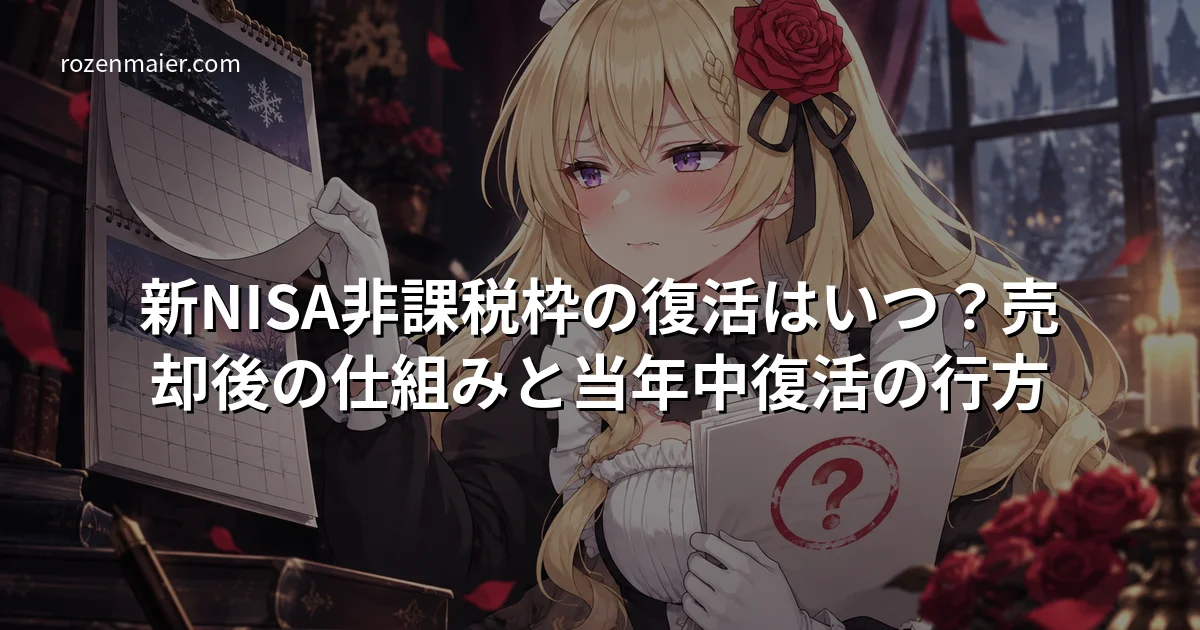
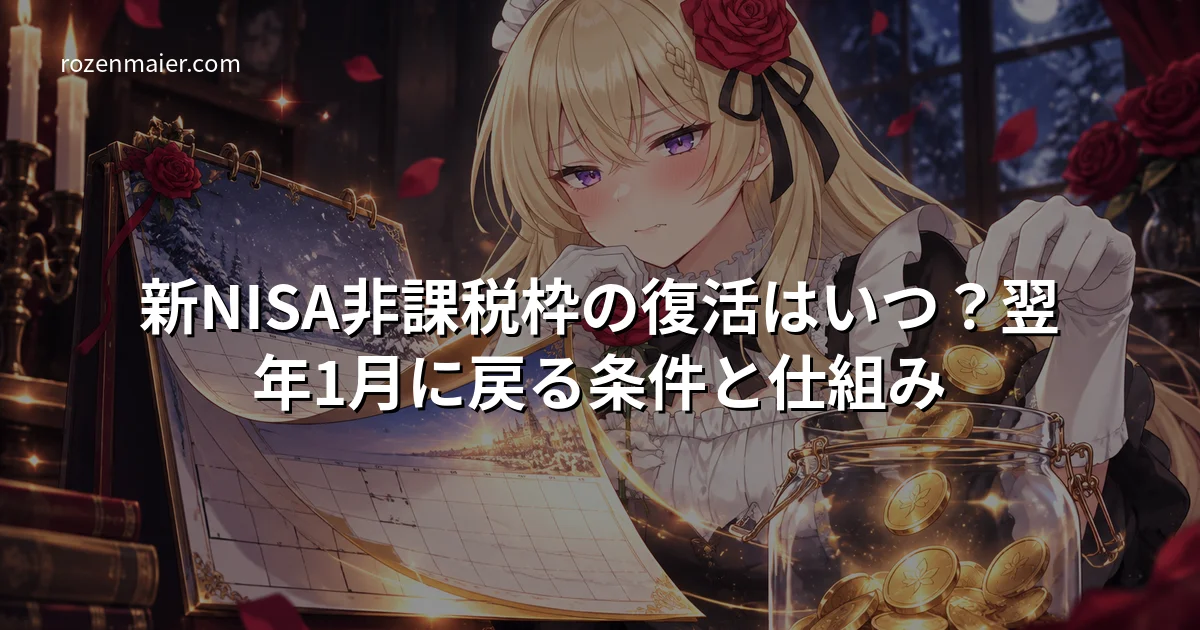
rewrite(seo): NISA非課税枠の復活記事（Bing週次 108→43表示・2→0クリックで失速）を、実クエリ「復活 いつ/1月1日/上限繰り越し/移管後」に合わせて直す
- 翌年枠は1月1日でなく受渡日が翌年になる取引から使える（松井証券FAQ）を新設H2で回答
- 使い残した年間枠は繰り越せない（あおぞら銀行・三菱UFJAM FAQ）と復活/リセット/繰り越しの区別を新設
- 金融機関変更時の通算（金融庁FAQ・国税庁NISAクラウドQ&A令和8年7月）、課税口座移管でも翌年再利用可を追加
- タイトルに答え「翌年1月」と「条件」を入れ、クリック語の「非課税枠・復活・いつ・仕組み」は維持。サムネ再生成

diff --git a/content/posts/2026-08-11-nisa-tax-free-slot-recovery-timing-2027-guide.md b/content/posts/2026-08-11-nisa-tax-free-slot-recovery-timing-2027-guide.md
@@ -1,11 +1,11 @@
 ---
-title: "新NISA非課税枠の復活はいつ？売却後の仕組みと当年中復活の行方"
+title: "新NISA非課税枠の復活はいつ？翌年1月に戻る条件と仕組み"
 date: 2026-08-11
-lastmod: 2026-09-29
+lastmod: 2026-10-16
 draft: false
 tags: ["NISA", "税金・確定申告"]
 categories: ["NISA・iDeCo"]
-description: "新NISAで売却した非課税枠は翌年1月に簿価分だけ復活します。年末売却は受渡日で判定、年間360万円の上限で戻りきらないケース、成長投資枠1,200万円の扱い、「当年中復活」は令和8年度改正で見送られ令和9年度要望で再挑戦中という現状まで、金融庁資料で整理します。"
+description: "新NISAで売却した非課税枠は翌年1月に簿価分だけ復活します。翌年の枠は1月1日ではなく受渡日が翌年になる12月下旬の取引から使えること、使い残した年間枠は繰り越せないこと、金融機関変更や課税口座への移管時の扱い、受渡日判定、当年中復活の改正状況まで金融庁・国税庁資料で整理します。"
 featureimage: "https://rozenmaier.com/img/thumbnails/2026-08-11-nisa-tax-free-slot-recovery-timing-2027-guide.jpg"
 featureimagecaption: "Photo by rozenmaier.com"
 ---
@@ -15,6 +15,8 @@ featureimagecaption: "Photo by rozenmaier.com"
 - **いつ：** 売却した年の**翌年1月**に復活します（当年中には戻りません）
 - **いくら：** 売ったときの金額ではなく、**買ったときの金額（簿価）**の分だけ
 - **判定の基準日：** 約定日ではなく**受渡日**。年末ぎりぎりの売却は1年ずれることがあります
+- **翌年の枠が使えるのは：** 1月1日ではなく、**受渡日が翌年になる取引から**。日本株なら12月下旬の取引日から翌年分の枠で買えます
+- **使い残した年間枠は？** 翌年に**繰り越せません**。「復活」するのは生涯枠1,800万円の空きだけです
 - **2027年から当年中に戻る？** ——いいえ、**まだ決まっていません**。金融庁は令和8年度の税制改正で要望しましたが大綱には入らず、2026年8月の令和9年度要望で改めて求めている段階です
 
 最後の点は、ネット上で「2027年1月から当年中復活」と書かれた記事が少なくないので要注意ですわ。この記事も以前はそう書いておりました。金融庁の一次資料で確認し直したところ、令和8年度税制改正大綱（2025年12月）で決まったのは「つみたて投資枠の年齢要件撤廃（こどもNISA）」などであって、枠の当年中復活は含まれていませんでした。お詫びして訂正いたします。🌹
@@ -124,6 +126,62 @@ featureimagecaption: "Photo by rozenmaier.com"
 
 ---
 
+## 使い残した年間枠は繰り越せない——「復活」と「繰り越し」は別物
+
+「今年は60万円しか使わなかったから、残り300万円を来年に上乗せできる？」という質問もよくいただきますが、答えは**できません**。
+
+あおぞら銀行のFAQは「年間投資枠（つみたて投資枠120万円、成長投資枠240万円の計360万円）を使い切れなかった場合でも、その分を翌年に繰り越すことはできません」と明記していますし、三菱UFJアセットマネジメントのFAQも「つみたて投資枠、成長投資枠ともに、残りの枠を翌年に繰り越せません」と答えています。
+
+| 用語 | 対象 | 中身 |
+|---|---|---|
+| 枠の**復活**（再利用） | 生涯枠1,800万円 | 売った商品の簿価分が、翌年以降の「空き」として戻る |
+| 年間枠の**リセット** | 年間投資枠360万円 | 毎年1月（正確には受渡日が翌年になる取引）から新しい360万円になる |
+| 年間枠の**繰り越し** | 年間投資枠360万円 | **できない**。使い残した分は消える |
+
+ややこしいのは、「生涯枠の空き」は繰り越されていくのに、「年間枠の使い残し」は消える点ですわ。今年60万円しか投資しなかった人は、生涯枠1,800万円のうち1,740万円が空いたまま来年に持ち越されます。ただし来年に使えるのは、やはり年間360万円まで。**生涯枠は貯まる、年間枠は貯まらない**——この2つを分けて覚えておけば迷いませんの。
+
+---
+
+## 翌年の枠はいつから使える？——1月1日ではなく「受渡日が翌年になる取引」から
+
+「1月1日になった瞬間に枠が戻るの？」という疑問には、**少し早く使える**とお答えしますわ。判定が受渡日基準なので、受渡日が翌年1月になる取引は、12月中でも翌年の枠で買えるからです。
+
+松井証券のFAQでは、翌年分のNISA年間投資枠は「日本株の受渡日が翌年となる取引日から使用できます」とされ、例として「12/29（木）取引日が翌年1/4（水）受渡日となる場合」には、その前営業日の夕方に翌年分の投資可能額が画面に反映され、12/29の取引分から翌年の枠が使えると説明しています。
+
+| 取引 | どちらの年の枠？ |
+|---|---|
+| 受渡日が12月中に収まる約定 | その年の枠 |
+| 受渡日が翌年1月になる約定（年末最終週など） | **翌年の枠** |
+| 投資信託 | 銘柄ごとに受渡日・ファンド休日が違うため、銘柄で異なる |
+
+裏を返すと、**年末の「今年の枠を使い切りたい」買付も、「今年中に売って来年復活させたい」売却も、締切は12月下旬より前**になります。売却でも買付でも、受渡日が年内に収まるかどうかがすべてですわ。
+
+なお、売った分の生涯枠（簿価分）が「翌年以降に再利用可能」になる点は同じFAQにも書かれていますが、それが画面に何日から表示されるかは金融機関ごとに違います。年明けに証券会社のNISA口座管理画面で、利用可能額が増えているかを確かめてくださいまし。
+
+---
+
+## 金融機関を変えた・課税口座へ移した場合の枠
+
+### 金融機関を変えても、生涯枠は通算で管理される
+
+金融庁のNISA特設サイトのよくある質問では、「利用者それぞれの非課税保有限度額については、国税庁において一括管理を行うこととされています」と説明されています。
+
+仕組みとしては、各金融機関が年末時点の簿価残高を**翌年1月31日まで**に「NISAクラウド」へ提供し、そこで名寄せ・集計（年次集計）した「総投資簿価残高」が、**最新のNISA口座がある金融機関**に渡される流れですわ（国税庁「新NISAに関するQ＆A（金融商品取引業者等向けの情報）」令和8年7月版）。
+
+つまり、A証券で売却して翌年B証券に乗り換えた場合でも、A証券で売った簿価分の空きはB証券側の枠に反映されます。ただし集計に時間がかかるため、乗り換え直後は利用可能額が確定していない期間がありえます。乗り換えの手続き締切は[NISAの金融機関変更は9月30日が分岐点](/posts/2026-08-25-nisa-financial-institution-change-september-deadline-guide/)で整理していますわ。
+
+### NISAから課税口座へ移した分も、翌年に再利用できる
+
+売却だけでなく、NISA口座の商品を特定口座など**課税口座へ払い出した（移管した）場合**も、その簿価分は翌年以降に再利用できます。松井証券のFAQは「売却または課税口座に移管した分の非課税保有限度額（つみたて投資枠1,800万円、うち成長投資枠1,200万円）は翌年以降に再利用可能」と明記していますの。
+
+ただし、課税口座に移した後の値上がり益には課税されますし、移管時の取得価額の扱いは金融機関の手続きに従います。枠を空ける目的だけで移管するのは、税金面で損にならないかを確かめてからにしてくださいまし。
+
+### 旧NISA（2023年まで）の売却では枠は戻らない
+
+2023年までの一般NISA・つみたてNISAで買った商品を売っても、新NISAの枠は復活しません（松井証券FAQ「旧NISA口座で保有する資産を売却しても再利用はできません」）。旧NISAは新NISAの1,800万円とは別枠なので、そもそも使っていない枠ですわね。
+
+---
+
 ## 「2027年から当年中に復活」はまだ決まっていない
 
 ここからが、この記事で一番お伝えしたいところですわ。
@@ -221,7 +279,15 @@ featureimagecaption: "Photo by rozenmaier.com"
 
 ### Q. 金融機関を変更したら、復活した枠はどうなりますか？
 
-生涯枠1,800万円は国税庁側で名寄せして管理されるため、金融機関を変えても通算されます。ただし変更の手続きには年単位の締切がありますので、[NISAの金融機関変更は9月30日が分岐点](/posts/2026-08-25-nisa-financial-institution-change-september-deadline-guide/)もご覧くださいまし。
+生涯枠1,800万円は国税庁側（NISAクラウド）で名寄せして管理されるため、金融機関を変えても通算されます。詳しくは上の「金融機関を変えた・課税口座へ移した場合の枠」をご覧くださいまし。
+
+### Q. 今年使わなかった年間枠を、来年に繰り越せますか？
+
+繰り越せません。毎年の年間投資枠は360万円で固定です。使わなかった分は生涯枠1,800万円の「空き」として残るだけですわ。
+
+### Q. 「NISA枠がリセットされる」とはどういう意味ですか？
+
+年間投資枠360万円が新しい年の分に切り替わることを指して使われることが多い言葉ですわ。生涯枠1,800万円の使用額はリセットされず、売却した簿価分だけが翌年に空きます。
 
 ### Q. 分配金で受け取ったお金は枠を使いますか？
 
@@ -229,13 +295,14 @@ featureimagecaption: "Photo by rozenmaier.com"
 
 ---
 
-## まとめ：非課税枠の復活で覚えておくべき5つのポイント
+## まとめ：非課税枠の復活で覚えておくべき6つのポイント
 
-1. **復活は「翌年1月」**——当年中には戻らない（2026年9月時点の現行ルール）
+1. **復活は「翌年1月」**——当年中には戻らない（2026年10月時点の現行ルール）
 2. **戻るのは「簿価」**——値上がり益の分は戻らず、値下がりしても簿価どおり戻る
 3. **判定は「受渡日」**——年末の売却は12月中旬までに約定させる
-4. **年間360万円の上限は別にかかる**——大きく売っても翌年に使えるのは360万円まで
-5. **「2027年から当年中復活」は未定**——令和8年度改正では見送られ、令和9年度要望で再挑戦中。2026年12月の税制改正大綱が分かれ目
+4. **年間360万円の上限は別にかかる**——大きく売っても翌年に使えるのは360万円まで。使い残した年間枠は繰り越せない
+5. **金融機関を変えても、課税口座へ移しても、簿価分は翌年に戻る**——生涯枠は国税庁側で通算管理
+6. **「2027年から当年中復活」は未定**——令和8年度改正では見送られ、令和9年度要望で再挑戦中。2026年12月の税制改正大綱が分かれ目
 
 制度の細部を正しく押さえておけば、「いつ売るか」「どの年の枠で買い直すか」を落ち着いて判断できますわ。べ、別に御主人様のために調べ直したわけではありませんけれど……間違ったまま放っておくのは、わたくしの矜持が許しませんでしたの。
 
@@ -252,3 +319,7 @@ featureimagecaption: "Photo by rozenmaier.com"
 - 金融庁 NISA特設ウェブサイト「NISAを知る」
 - 三井住友銀行 FAQ「【NISA】年内のNISA非課税枠の利用は、約定日が基準ですか？」
 - 三菱UFJアセットマネジメント FAQ「非課税投資枠の再利用について教えてください。」
+- 三菱UFJアセットマネジメント FAQ「今年使わなかったNISAの非課税投資枠を翌年に繰り越せますか。」
+- あおぞら銀行 FAQ「NISA口座で年間投資上限額（年間投資枠）を使い切らなかった場合、翌年以降に繰越しできますか？」
+- 松井証券 FAQ「翌年分のNISA投資枠はいつから使用できますか。」
+- 国税庁「新NISAに関するQ＆A（金融商品取引業者等向けの情報）」（令和8年7月）
